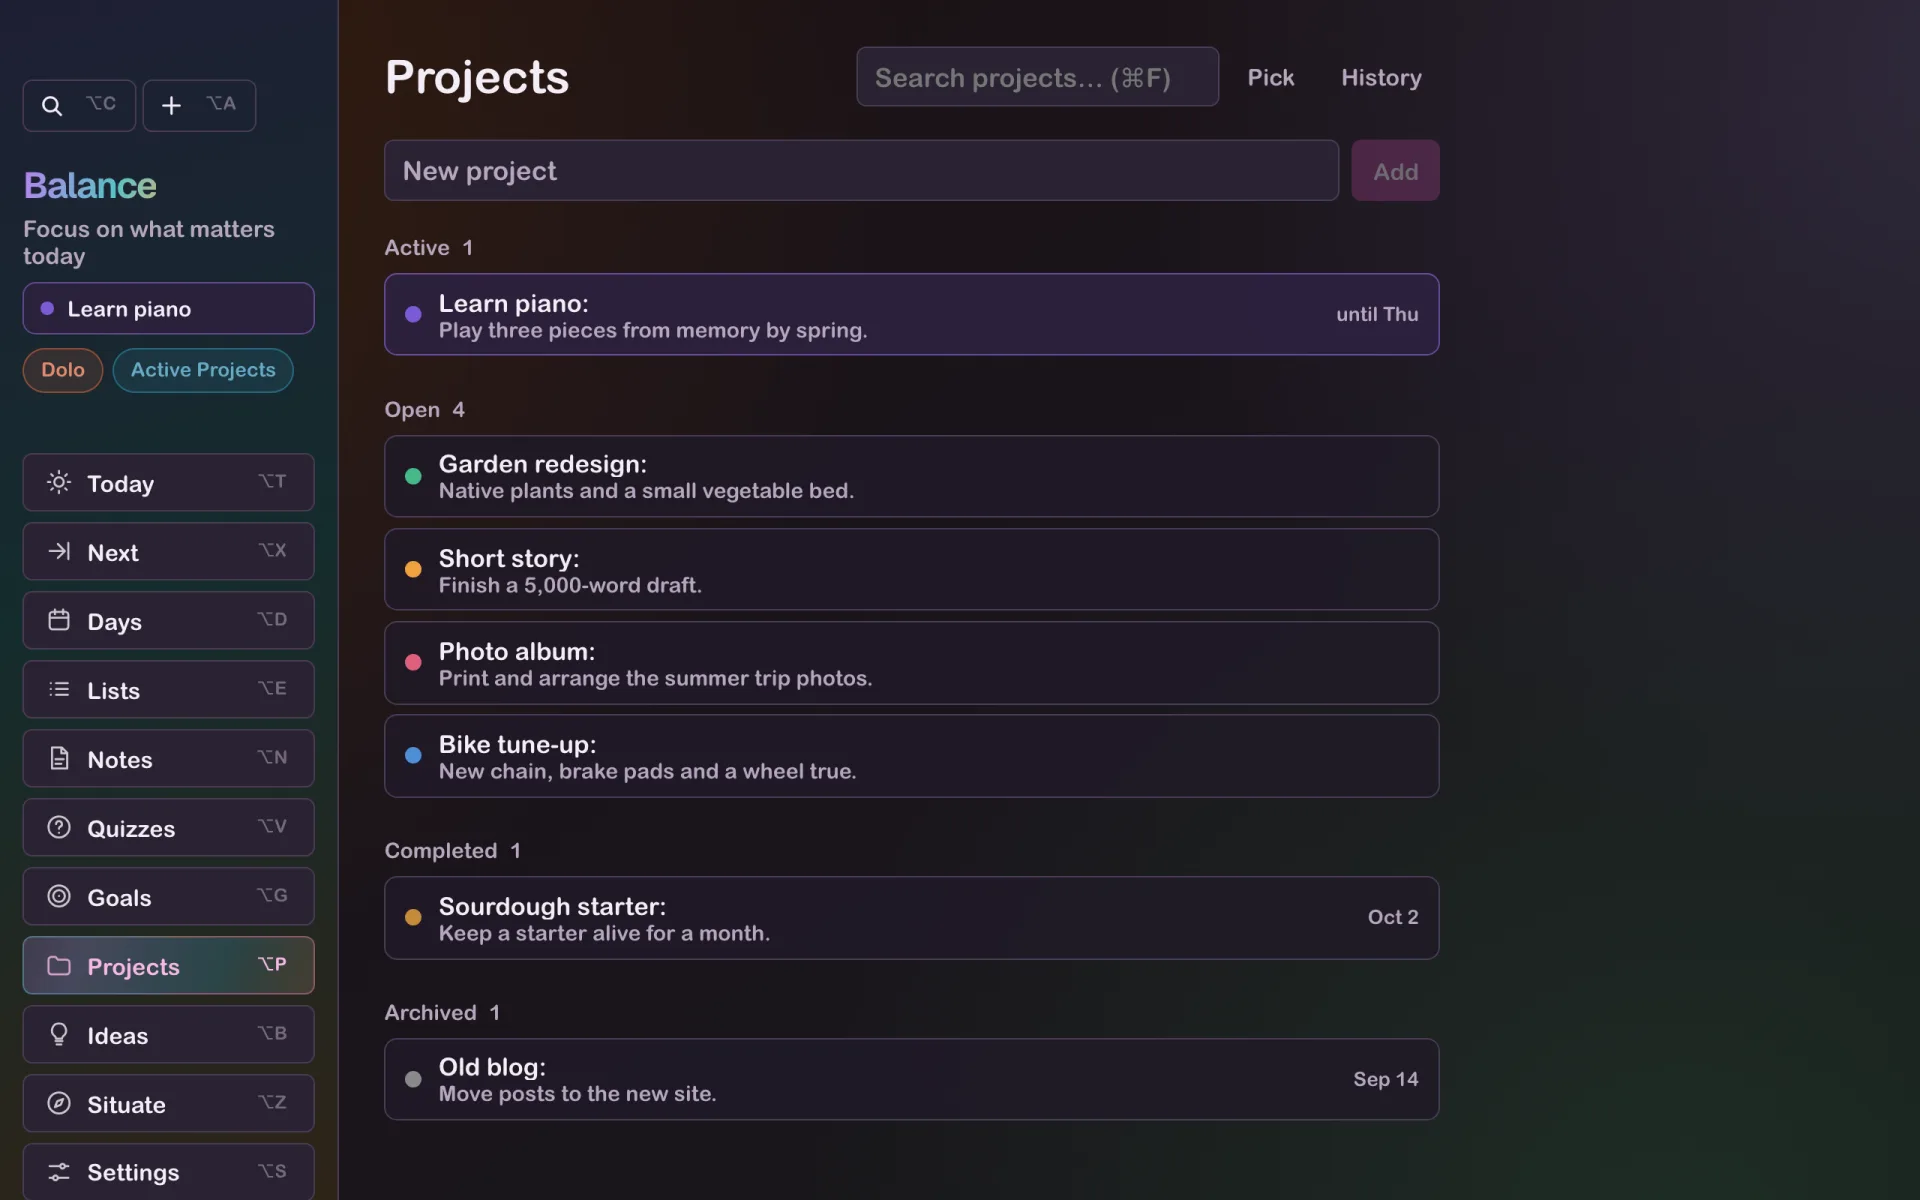
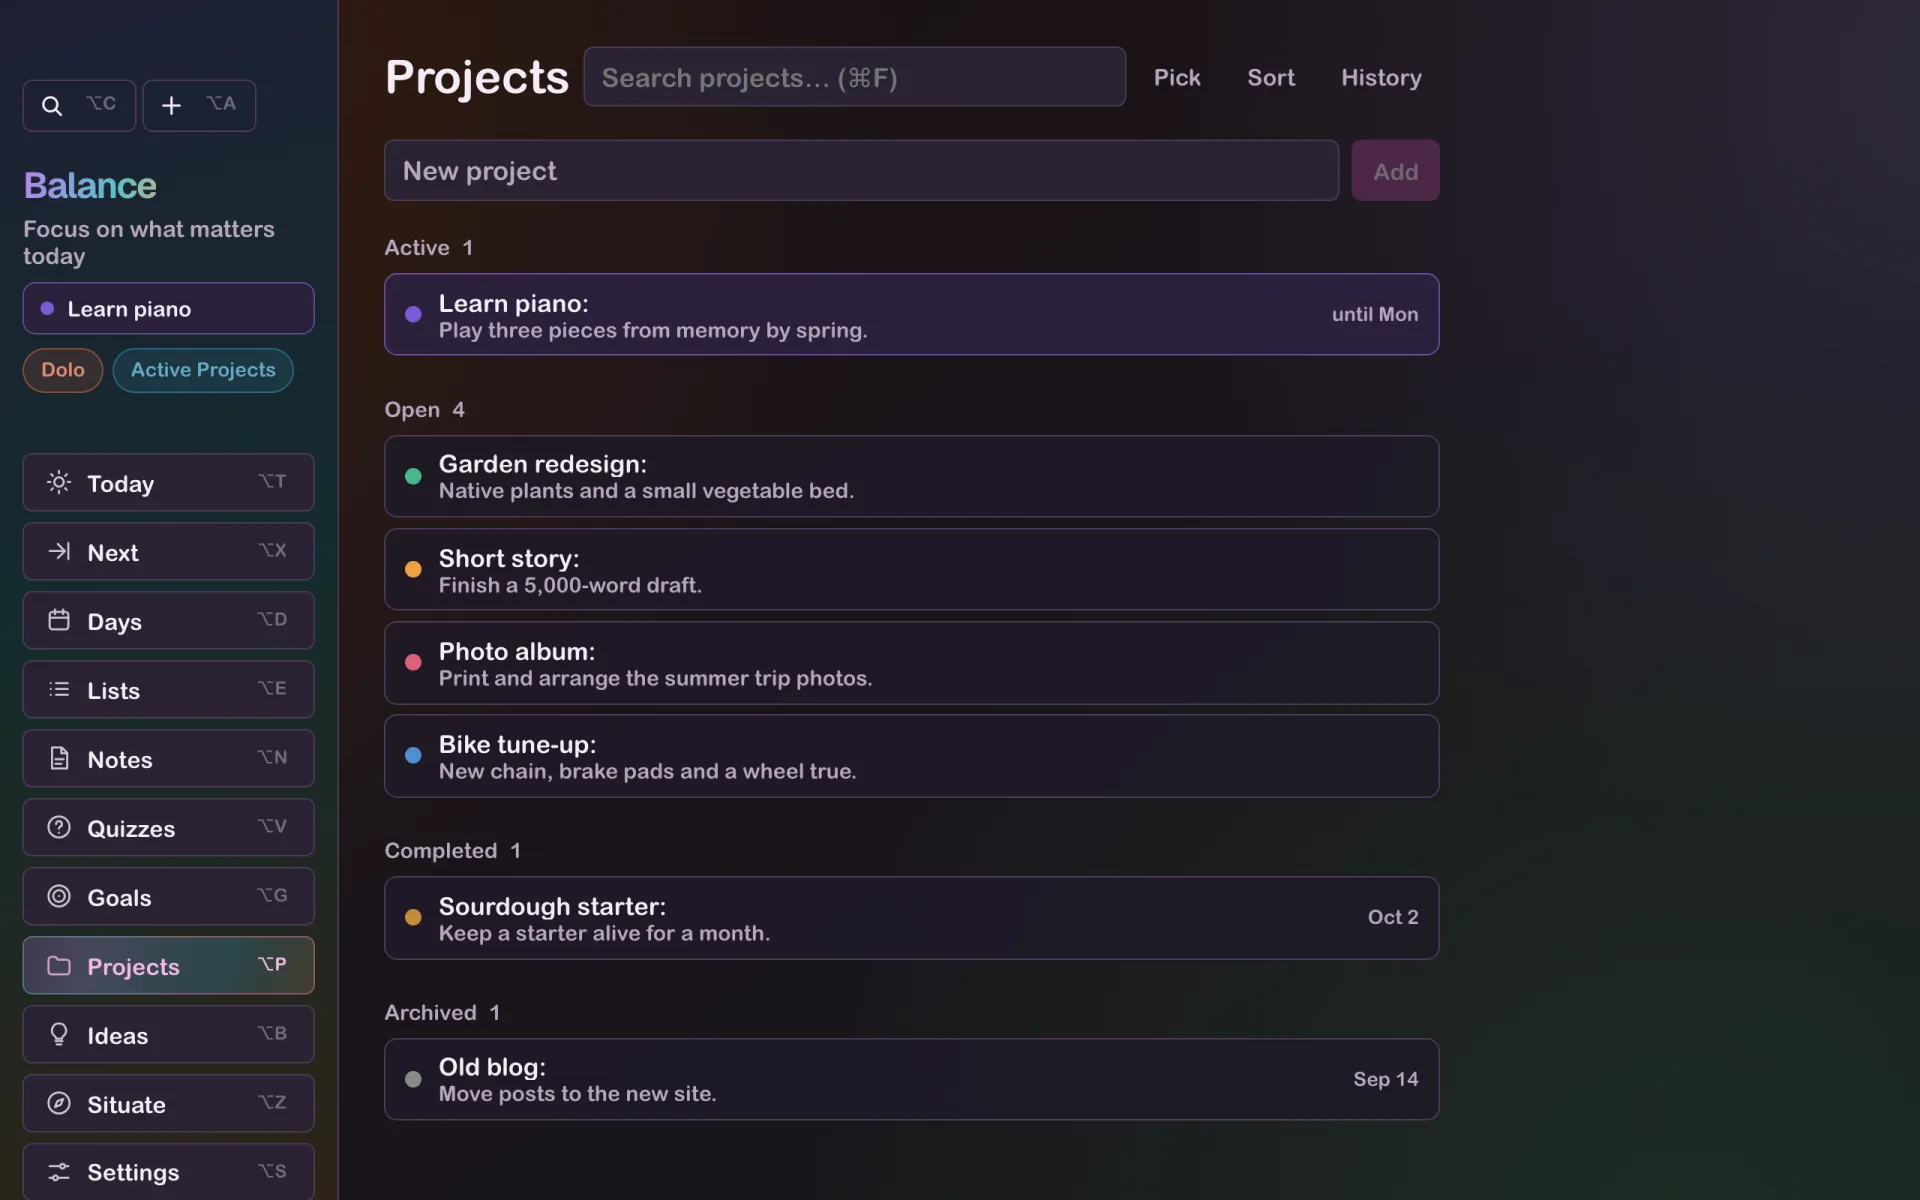
Cut open projects into movable paper pieces on a sorting table

Changed region(s): [[0.2812, 0.0308, 0.6875, 0.0925], [0.6875, 0.2467, 0.75, 0.2775]]

diff --git a/src/lib/ProjectSort.svelte b/src/lib/ProjectSort.svelte
@@ -1,0 +1,176 @@
+<script lang="ts">
+  import { onMount } from 'svelte'
+  import type { Project } from './types'
+  export let projects: Project[]
+  export let onBack: () => void
+  type Point = { x: number; y: number }
+  type Slip = { id: string; rows: number[][]; center: Point; place?: Point }
+  const width = 90, row = 22
+  let canvas: HTMLCanvasElement
+  let slips: Slip[] = []
+  let marks = new Set<number>()
+  let previous: Point | null = null
+  let touching = false
+  let undo: { marks: Set<number>; slips: Slip[] }[] = []
+  let dragging = ''
+  let offset = { x: 0, y: 0 }
+  let viewWidth = 1, viewHeight = 1
+  let context: CanvasRenderingContext2D
+  let camera = 0, frame = 0, target = 0, fly = 0
+  $: arranged = slips.length >= projects.length
+  function scale() { return Math.min((viewWidth - 32) / width, 6) }
+  function origin() { return (viewWidth - width * scale()) / 2 }
+  function title(s: string, x: number, y: number, size: number, max: number) {
+    context.font = size + 'px "Bradley Hand", "Segoe Print", "Comic Sans MS", cursive'
+    context.fillStyle = '#252733'
+    context.textBaseline = 'middle'
+    context.fillText(s, x, y, max)
+  }
+  function dimensions() {
+    const cols = Math.ceil(Math.sqrt(projects.length * viewWidth / viewHeight))
+    return Math.min(1.9, viewWidth / ((cols || 1) * width), viewHeight / ((Math.ceil(projects.length / (cols || 1)) || 1) * row))
+  }
+  function position(s: Slip): Point {
+    return s.place ? { x:s.place.x * viewWidth, y:s.place.y * viewHeight } : { x: Math.min(viewWidth / 2, 20 + width * dimensions()/2), y:36 }
+  }
+  function drawSlip(s: Slip, p: Point, zoom: number) {
+    context.save()
+    context.translate(p.x,p.y)
+    context.scale(zoom,zoom)
+    context.translate(-s.center.x,-s.center.y)
+    context.fillStyle = '#fff9e7'
+    for (const [x,y,n] of s.rows) context.fillRect(x,y,n,1.04)
+    title(projects.find(a=>a.id===s.id)?.name ?? '',6,s.center.y,5.6,width-12)
+    context.restore()
+  }
+  function paint() {
+    cancelAnimationFrame(frame)
+    context.clearRect(0,0,viewWidth,viewHeight)
+    camera += (target-camera)*0.17
+    const z = scale()
+    if (!arranged || fly > 0.01) {
+      context.save()
+      context.translate(origin(),84-camera*z)
+      context.scale(z,z)
+      context.fillStyle = '#fff9e7'
+      context.fillRect(0,0,width,row*projects.length)
+      const start = Math.max(0,Math.floor((camera-84/z)/row))
+      for(let i=start;i<Math.min(projects.length,start+Math.ceil(viewHeight/z/row)+2);i++){
+        title(projects[i].name,6,i*row+row/2,5.6,width-12)
+      }
+      for(const cell of marks) context.clearRect(cell%width,Math.floor(cell/width),1,1)
+      for(const slip of slips) for(const [x,y,n] of slip.rows) context.clearRect(x,y,n,1.02)
+      context.restore()
+    }
+    for(const s of slips) {
+      const p = position(s)
+      const t = s===slips.at(-1) ? fly : 0
+      const small = !s.place && dragging!==s.id ? dimensions()*.64 : dimensions()
+      drawSlip(s,{x:p.x*(1-t)+(origin()+s.center.x*z)*t,y:p.y*(1-t)+(84+(s.center.y-camera)*z)*t},small+(z-small)*t)
+    }
+    fly *= .91
+    if(Math.abs(target-camera)>.02 || fly>.005) frame=requestAnimationFrame(paint)
+  }
+  function cut(touchedRow: number) {
+    const height = projects.length*row
+    // Only a component separated from the remaining visible titles can leave the sheet.
+    const pending = projects.map((p,i)=>({p,i})).filter(({p})=>!slips.some(s=>s.id===p.id))
+    context.font = '5.6px "Bradley Hand", "Segoe Print", "Comic Sans MS", cursive'
+    const ends = pending.map(({p})=>Math.floor(6+Math.min(width-12,context.measureText(p.name).width)))
+    const seeds = pending.map(({i},j)=>(i*row+row/2)*width+Math.floor((6+ends[j])/2))
+    const titleCells = new Set(seeds)
+    for(const [index,seed] of seeds.entries()){
+      if(Math.abs(pending[index].i - touchedRow)>1 || marks.has(seed)) continue
+      const cells = new Set([seed]), queue=[seed]
+      let large=false
+      for(let j=0;j<queue.length;j++){
+        const n=queue[j], x=n%width
+        if(queue.length>width*row*2 || (n!==seed && titleCells.has(n))){large=true;break}
+        for(const next of [x ? n-1:-1,x<width-1?n+1:-1,n-width,n+width]){
+          if(next>=0 && next<width*height && !marks.has(next) && !cells.has(next)){cells.add(next);queue.push(next)}
+        }
+      }
+      if(large) continue
+      // The final title still needs a separating cut.
+      if(pending.length===1 && queue.length + marks.size + slips.reduce((n,s)=>n+s.rows.reduce((a,r)=>a+r[2],0),0)>=width*height) continue
+      const {i,p}=pending[index], y=i*row+row/2
+      if(![6,ends[index]].every(x=>cells.has(y*width+x))) continue
+      const rows:number[][]=[]
+      for(const n of queue.sort((a,b)=>a-b)){
+        const last=rows.at(-1), x=n%width, cy=Math.floor(n/width)
+        if(last && last[1]===cy && last[0]+last[2]===x) last[2]++
+        else rows.push([x,cy,1])
+      }
+      slips=[...slips,{id:p.id,center:{x:width/2,y},rows}]
+      fly=1
+      target=(projects.findIndex(p=>!slips.some(s=>s.id===p.id)) < 0 ? projects.length : projects.findIndex(p=>!slips.some(s=>s.id===p.id)))*row
+      previous=null
+      touching=false
+      break
+    }
+  }
+  function point(e: PointerEvent){const r=canvas.getBoundingClientRect();return {x:(e.clientX-r.left)*viewWidth/r.width,y:(e.clientY-r.top)*viewHeight/r.height}}
+  function move(e: PointerEvent){
+    const p=point(e)
+    if(dragging){
+      slips=slips.map(s=>s.id===dragging?{...s,place:{x:Math.min(1-width*dimensions()/2/viewWidth,Math.max(width*dimensions()/2/viewWidth,(p.x-offset.x)/viewWidth)),y:Math.min(1-row*dimensions()/2/viewHeight,Math.max(row*dimensions()/2/viewHeight,(p.y-offset.y)/viewHeight))}}:s)
+    }else if(!arranged && fly<.1){
+      const q={x:(p.x-origin())/scale(),y:(p.y-84)/scale()+camera}
+      const from=previous??q
+      const steps=Math.max(1,Math.ceil(Math.hypot(q.x-from.x,q.y-from.y)*2))
+      let changed=false
+      for(let i=1;i<=steps;i++){
+        const x=Math.floor(from.x+(q.x-from.x)*i/steps), y=Math.floor(from.y+(q.y-from.y)*i/steps)
+        if(x<0 || x>=width || y<0 || y>=projects.length*row){touching=false;continue}
+        if(slips.some(s=>s.rows.some(([a,b,n])=>b===y && x>=a && x<a+n))){touching=false;continue}
+        if(!touching) undo.push({marks:new Set(marks),slips:[...slips]})
+        touching=true
+        const n=y*width+x
+        if(!marks.has(n)){marks.add(n);changed=true}
+      }
+      previous=q
+      if(changed) cut(Math.floor(q.y/row))
+    }
+    paint()
+  }
+  function down(e:PointerEvent){
+    if(!arranged){move(e);return}
+    const p=point(e)
+    const s=[...slips].reverse().find(s=>{const c=position(s),z=dimensions()*(s.place?1:.64);return s.rows.some(([x,y,n])=>{const a=(p.x-c.x)/z+s.center.x,b=(p.y-c.y)/z+s.center.y;return a>=x && a<x+n && b>=y && b<y+1})})
+    if(!s)return
+    dragging=s.id
+    const c=position(s)
+    offset={x:p.x-c.x,y:p.y-c.y}
+    slips=[...slips.filter(a=>a!==s),s]
+    canvas.setPointerCapture(e.pointerId)
+    move(e)
+  }
+  onMount(()=>{
+    context=canvas.getContext('2d')!
+    const resize=new ResizeObserver(()=>{
+      viewWidth=canvas.clientWidth;viewHeight=canvas.clientHeight
+      const d=devicePixelRatio
+      canvas.width=Math.round(viewWidth*d);canvas.height=Math.round(viewHeight*d)
+      context.setTransform(d,0,0,d,0,0);paint()
+    })
+    resize.observe(canvas)
+    function key(e:KeyboardEvent){
+      if((e.metaKey || e.ctrlKey) && e.key.toLowerCase()==='z'){
+        e.preventDefault();e.stopImmediatePropagation()
+        const entry=undo.pop()
+        if(entry){marks=entry.marks;slips=entry.slips;previous=null;touching=false;fly=0;target=Math.max(0,projects.findIndex(p=>!slips.some(s=>s.id===p.id)))*row;paint()}
+      }
+    }
+    window.addEventListener('keydown',key,true)
+    return ()=>{resize.disconnect();cancelAnimationFrame(frame);window.removeEventListener('keydown',key,true)}
+  })
+</script>
+<div class="sort-view">
+  <header><button class="ghost" on:click={onBack}>Back</button><h2>Sort</h2><span>{!projects.length?'No open projects':arranged?'Drag pieces from the pile':'Trace around each title'}</span></header>
+  <canvas bind:this={canvas} aria-label="Project sorting tabletop" on:pointermove={move} on:pointerdown={down} on:pointerleave={()=>{previous=null;touching=false}} on:lostpointercapture={()=>dragging=''}></canvas>
+</div>
+<style>
+ header {display:flex;align-items:center;gap:12px;margin-bottom:12px}
+ header h2 {margin:0} header span {margin-left:auto;font-size:.85em}
+ canvas {display:block;width:100%;height:clamp(320px,72dvh,900px);background:radial-gradient(at 35% 15%,#696056,#433e39);border-radius:10px;touch-action:none;cursor:crosshair}
+</style>

diff --git a/src/lib/ProjectsPanel.svelte b/src/lib/ProjectsPanel.svelte
@@ -4,6 +4,8 @@
   import { onDestroy, tick } from 'svelte'
   import type { Project } from './types'
   import { plannerStore } from './store'
+  import ProjectSort from './ProjectSort.svelte'
+  let sorting = false
   import ProjectCard from './ProjectCard.svelte'
   import ProjectHistory from './ProjectHistory.svelte'
   import OverlayModal from './OverlayModal.svelte'
@@ -138,7 +140,9 @@
 </script>
 
 <section class="projects-panel" aria-label="Projects">
-  {#if showingHistory}
+  {#if sorting}
+    <ProjectSort projects={projects.filter(isProjectOpen)} onBack={() => sorting = false} />
+  {:else if showingHistory}
   <header class="page-header projects-header history-header">
     <button class="ghost projects-back" type="button" on:click={onHideHistory}><span aria-hidden="true">‹</span>Back</button>
     <h2>History</h2>
@@ -150,6 +154,7 @@
     <div class="projects-header-actions">
       <input class="projects-search" type="search" aria-label="Search projects" placeholder={`Search projects…${searchShortcutLabel ? ` (${searchShortcutLabel})` : ''}`} bind:this={searchInput} bind:value={search} />
       <button class="ghost" type="button" on:click={onPick}>Pick</button>
+      <button class="ghost" type="button" on:click={() => sorting = true}>Sort</button>
       <button class="ghost" type="button" on:click={onShowHistory}>History</button>
     </div>
   </header>
@@ -287,15 +292,17 @@
 
 <style>
   .projects-panel { min-width: 0; max-width: 640px; }
+  .projects-panel:has(:global(.sort-view)) { max-width: none; }
   .details-overlay { display: contents; }
   .page-header h2 { margin: 0; }
   .projects-header { display: flex; align-items: center; justify-content: space-between; gap: 8px; }
   .projects-header button { font-size: 14px; padding: 6px 10px; }
   .projects-header-actions { display: flex; align-items: center; justify-content: flex-end; flex: 1 1 auto; gap: 6px; min-width: 0; }
-  .projects-search { flex: 0 1 220px; min-width: 0; min-height: 34px; }
+  .projects-search { flex: 1 1 24ch; min-width: 0; min-height: 34px; }
   @media (max-width: 760px) {
     .projects-header:not(.history-header) { align-items: stretch; }
-    .projects-search { flex-grow: 1; }
+    .projects-header-actions { flex-wrap: wrap; }
+    .projects-search { flex: 1 0 min(100%, 24ch); }
   }
   .projects-no-match { display: flex; flex-wrap: wrap; align-items: center; gap: 8px; }
   .projects-no-match p { margin: 0; }

diff --git a/tests/visual/projects.spec.ts b/tests/visual/projects.spec.ts
@@ -978,3 +978,22 @@ test('searching projects filters every section by name or description', async ({
   await expect(search).toHaveValue('')
   await expect(names).toHaveText(['Synthetic fence', 'Synthetic garden', 'Synthetic shed:'])
 })
+
+test('a hover cut releases a project and undo restores the sheet', async ({page}) => {
+  await page.goto('/')
+  await openView(page, 'Projects')
+  await addProject(page, 'Paper garden')
+  await page.getByRole('button',{name:'Sort',exact:true}).click()
+  const sheet = page.getByLabel('Project sorting tabletop')
+  const box = (await sheet.boundingBox())!
+  const cssWidth = await sheet.evaluate(el=>el.clientWidth)
+  const zoom = box.width/cssWidth
+  const scale = Math.min((cssWidth-32)/90,6)*zoom
+  const left = box.x+(box.width-90*scale)/2
+  const y = box.y+84*zoom+18*scale
+  await page.mouse.move(left-3,y)
+  await page.mouse.move(left+90*scale+3,y,{steps:60})
+  await expect(page.getByText('Drag pieces from the pile')).toBeVisible()
+  await page.keyboard.press('Control+z')
+  await expect(page.getByText('Trace around each title')).toBeVisible()
+})
